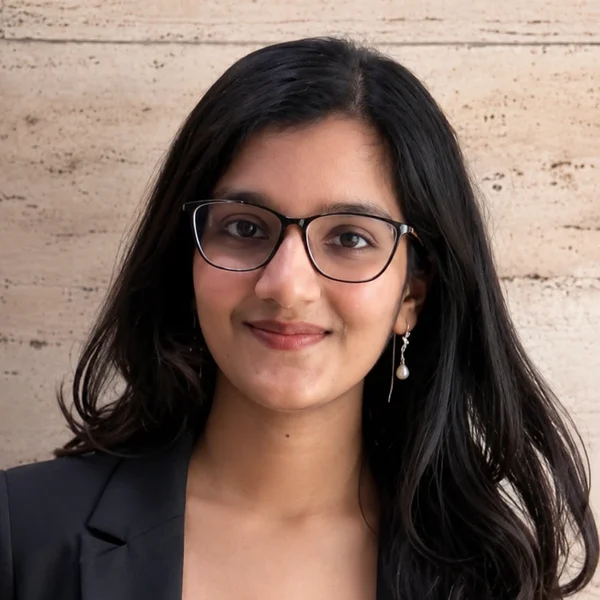
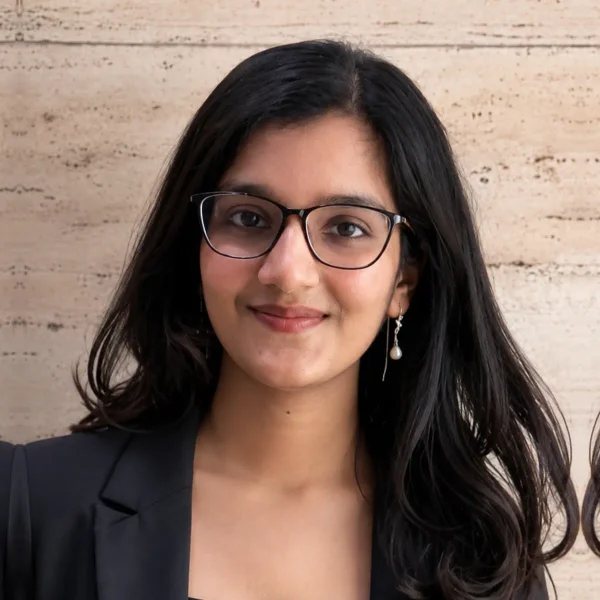
Portrait framed head-to-shoulders like a profile photo; larger circle

diff --git a/src/components/contact/ContactSection.jsx b/src/components/contact/ContactSection.jsx
@@ -89,7 +89,7 @@ export default function ContactSection({ onOpenResumeModal }) {
               width="600"
               height="600"
               loading="lazy"
-              className="contact-item w-24 h-24 sm:w-28 sm:h-28 rounded-full object-cover ring-2 ring-[#E9784F] ring-offset-4 ring-offset-[#174B79] shadow-lg mb-5"
+              className="contact-item w-32 h-32 sm:w-40 sm:h-40 rounded-full object-cover ring-2 ring-[#E9784F] ring-offset-4 ring-offset-[#174B79] shadow-lg mb-5"
             />
             <div className="contact-item flex items-center gap-2 mb-3">
               <span className="w-1.5 h-1.5 rounded-full bg-[#E9784F]" />
